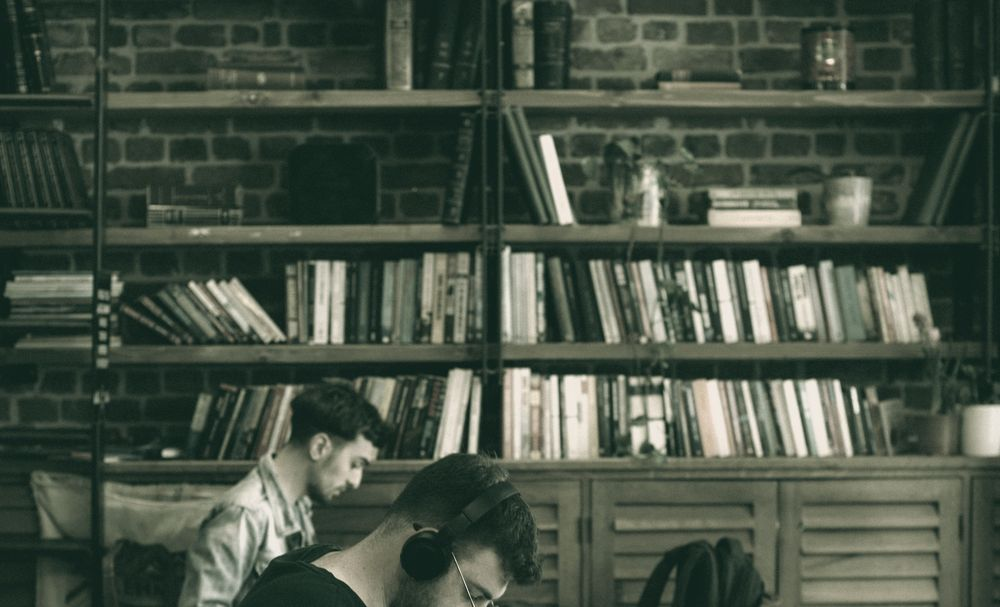
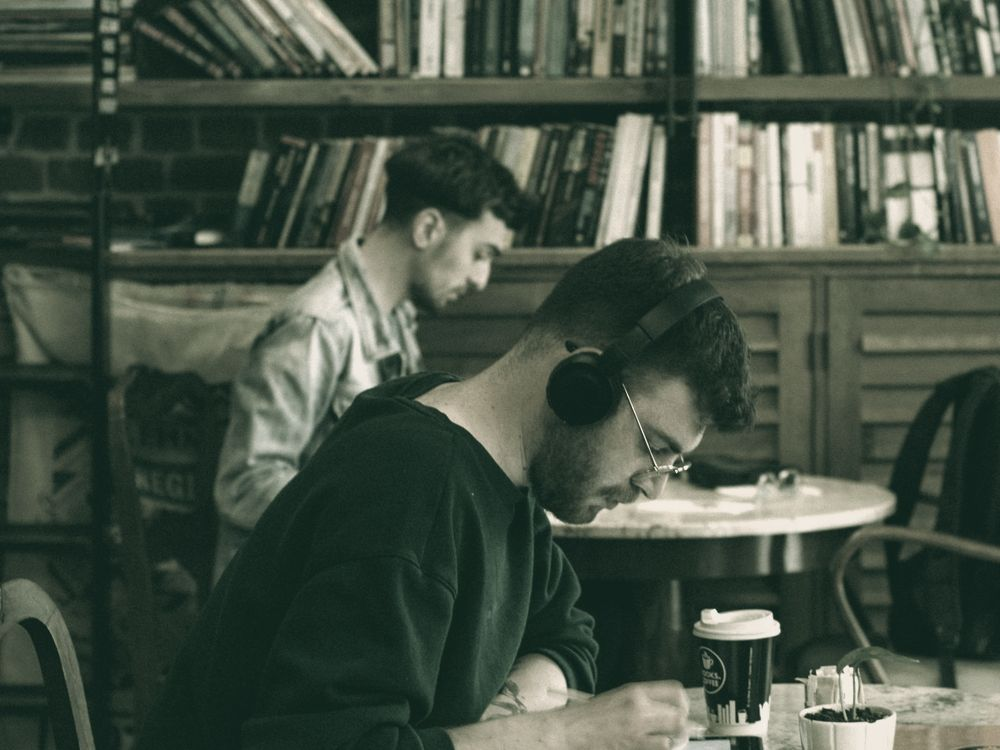
Fotos da Home: proporção 4:3 e recorte da livraria com as duas pessoas inteiras
Claude-Session: https://claude.ai/code/session_011keLgVwLSDZ8ngHoGxKHcz

diff --git a/src/redesign.css b/src/redesign.css
@@ -162,7 +162,7 @@ h1,h2,h3{font-family:var(--font-display);font-variation-settings:var(--fraunces-
 .lv-exp-msg{margin:16px 0 0;font-size:15px;color:var(--grafite-80);min-height:3em}
 .lv-ouvir{display:inline-flex;align-items:center;gap:10px;background:var(--verde-floresta);color:var(--papel);border:0;border-radius:2px;padding:10px 16px;font:inherit;font-weight:600;cursor:pointer}
 .lv-fotos{display:grid;grid-template-columns:repeat(3,1fr);gap:24px;margin:0 0 8px}
-.lv-fotos img{width:100%;aspect-ratio:4/3;object-fit:cover;display:block;border-radius:0}
+.lv-fotos img{width:100%;height:auto;aspect-ratio:4/3;object-fit:cover;display:block;border-radius:0}
 .lv-carta{max-width:640px;margin:0 auto;font-size:19px;line-height:1.65}
 .lv-carta-ass{font-family:'Caveat',cursive;font-size:30px;color:var(--verde-floresta);margin:20px 0 0}
 @media(max-width:800px){.lv-exp{grid-template-columns:1fr;gap:32px}.lv-fotos{grid-template-columns:1fr}}

diff --git a/src/pages/Home.tsx b/src/pages/Home.tsx
@@ -175,7 +175,7 @@ export default function Home() {
         <h2 id="h-metodo">{t.metodo.titulo} {t.metodo.destaque}</h2>
         <p className="lv-sec-sub">{t.metodo.sub}</p>
         <div className="lv-fotos">
-          {FOTOS.map((f) => <img key={f.src} src={f.src} alt={f.alt} width="1000" height="600" loading="lazy" decoding="async" />)}
+          {FOTOS.map((f) => <img key={f.src} src={f.src} alt={f.alt} width="1000" height="750" loading="lazy" decoding="async" />)}
         </div>
         <div className="lv-passos">
           {t.metodo.passos.map((m) => (
